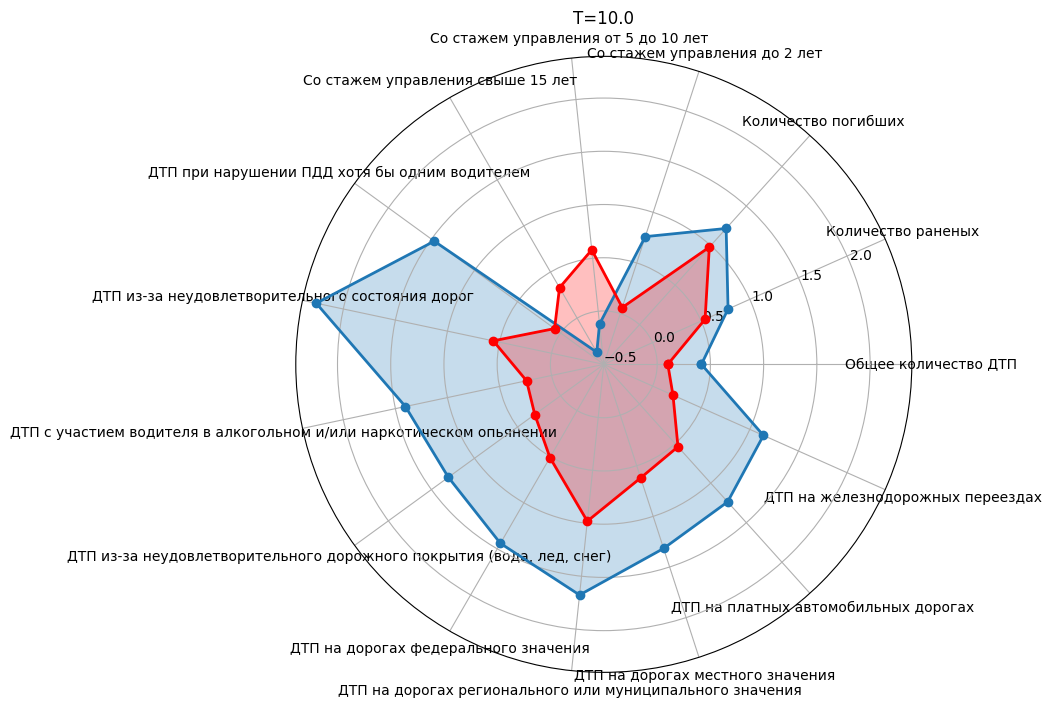
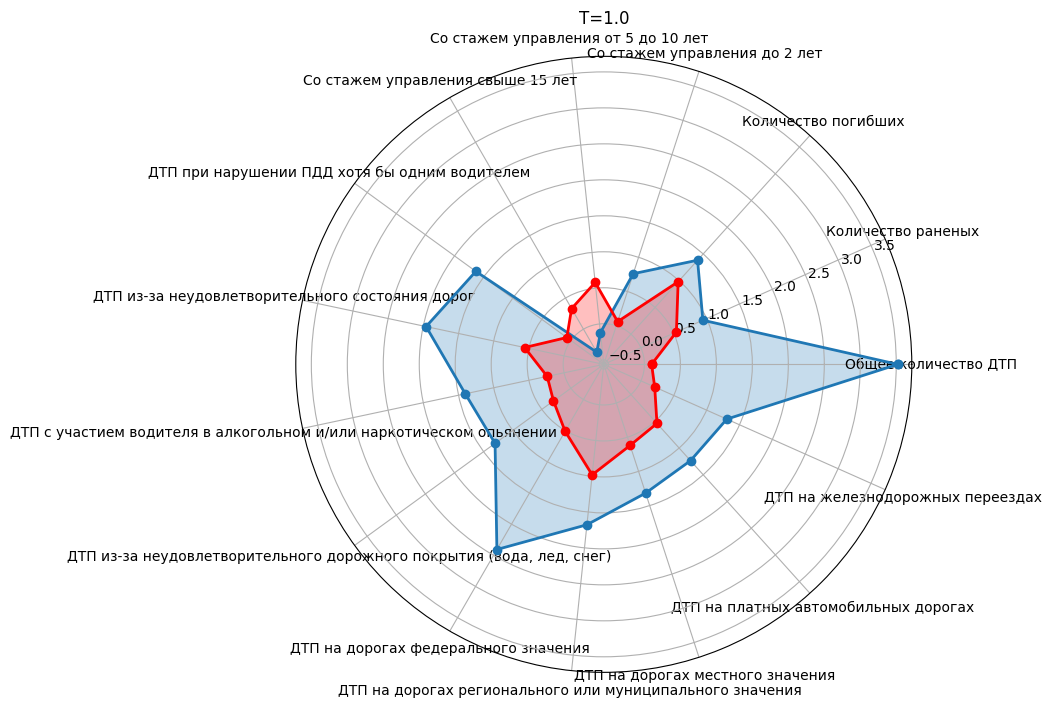
Task 2

diff --git a/service.py b/service.py
@@ -3,7 +3,21 @@ import numpy as np
 import matplotlib.pyplot as plt
 from scipy.integrate import odeint
 
-labelMap = {'U1': 'Общее количество ДТП','U2': 'Количество раненых','U3': 'Количество погибших','U4': 'Со стажем управления до 2 лет','U5': 'Со стажем управления от 5 до 10 лет','U6': 'Со стажем управления свыше 15 лет','U7': 'ДТП при нарушении ПДД хотя бы одним водителем','U8': 'ДТП из-за неудовлетворительного состояния дорог','U9': 'ДТП с участием водителя в алкогольном и/или наркотическом опьянении','U10': 'ДТП из-за неудовлетворительного дорожного покрытия (вода, лед, снег)','U11': 'ДТП на дорогах федерального значения','U12': 'ДТП на дорогах регионального или муниципального значения','U13': 'ДТП на дорогах местного значения','U14': 'ДТП на платных автомобильных дорогах','U15': 'ДТП на железнодорожных переездах'}
+labelMap = {'U1': 'Общее количество ДТП',
+            'U2': 'Количество раненых',
+            'U3': 'Количество погибших',
+            'U4': 'Со стажем управления до 2 лет',
+            'U5': 'Со стажем управления от 5 до 10 лет',
+            'U6': 'Со стажем управления свыше 15 лет',
+            'U7': 'ДТП при нарушении ПДД хотя бы одним водителем',
+            'U8': 'ДТП из-за неудовлетворительного состояния дорог',
+            'U9': 'ДТП с участием водителя в алкогольном и/или наркотическом опьянении',
+            'U10': 'ДТП из-за неудовлетворительного дорожного покрытия (вода, лед, снег)',
+            'U11': 'ДТП на дорогах федерального значения',
+            'U12': 'ДТП на дорогах регионального или муниципального значения',
+            'U13': 'ДТП на дорогах местного значения',
+            'U14': 'ДТП на платных автомобильных дорогах',
+            'U15': 'ДТП на железнодорожных переездах'}
 
 class CharacteristicFromExcel:
     def __init__(self, *args, **kwargs):
@@ -32,7 +46,7 @@ class CharacteristicFromExcel:
                                                   char_val[self.char_faks_index:]))
 
         self.func_m = {}
-        self.fak_f = {'FaK1': fak1, 'FaK2': fak2, 'FaK3': fak3, 'FaK4': fak4, 'FaK5': fak5, 'FaK6': fak6, 'FaK7': fak7, 'FaK8': fak8, 'FaK9': fak9, 'FaK9': fak9}
+        self.fak_f = {'FaK1': fak1, 'FaK2': fak2, 'FaK3': fak3, 'FaK4': fak4, 'FaK5': fak5, 'FaK6': fak6, 'FaK7': fak7, 'FaK8': fak8, 'FaK9': fak9, 'FaK10': fak10}
         for i in self.chars:
             for f in (i.b + i.d):
                 name = 'f' + str(len(self.func_m.keys()) + 1)
@@ -91,7 +105,7 @@ class CharacteristicFromExcel:
         return self.res
 
     def get_graphics(self):
-        fig = plt.figure(figsize=(10, 7))
+        fig = plt.figure(figsize=(10, 5)) #todo тут поправить чтобы график на говно не был похож
 
         # создаём область, в которой будет
         # - отображаться график
@@ -179,19 +193,19 @@ def fak5(t):
     return np.sqrt(t) * 0.2 + 0.1
 
 def fak6(t):
-    return np.sqrt(t) * 0.2 + 0.1
+    return np.sqrt(t) * 0.3 + 0.2
 
 def fak7(t):
-    return np.sqrt(t) * 0.2 + 0.1
+    return np.sqrt(t) * 0.5 - 0.4
 
 def fak8(t):
-    return np.sqrt(t) * 0.2 + 0.1
+    return np.sqrt(t) ** 2 + 0.1
 
 def fak9(t):
-    return np.sqrt(t) * 0.2 + 0.1
+    return np.sqrt(t) ** 0.5 + 0.4
 
 def fak10(t):
-    return np.sqrt(t) * 0.2 + 0.1
+    return np.sqrt(t) * 2 + 0.6
 
 
 excel_file_path = 'tableKush.xlsx'
